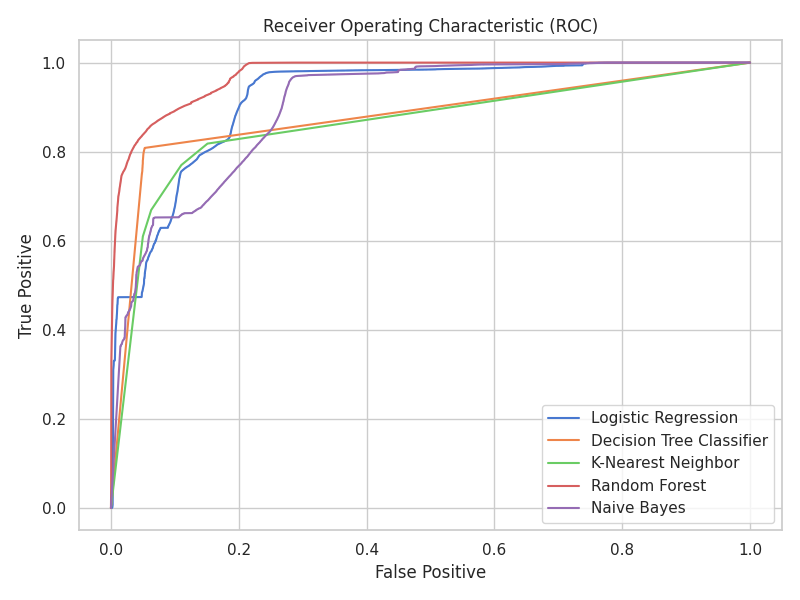
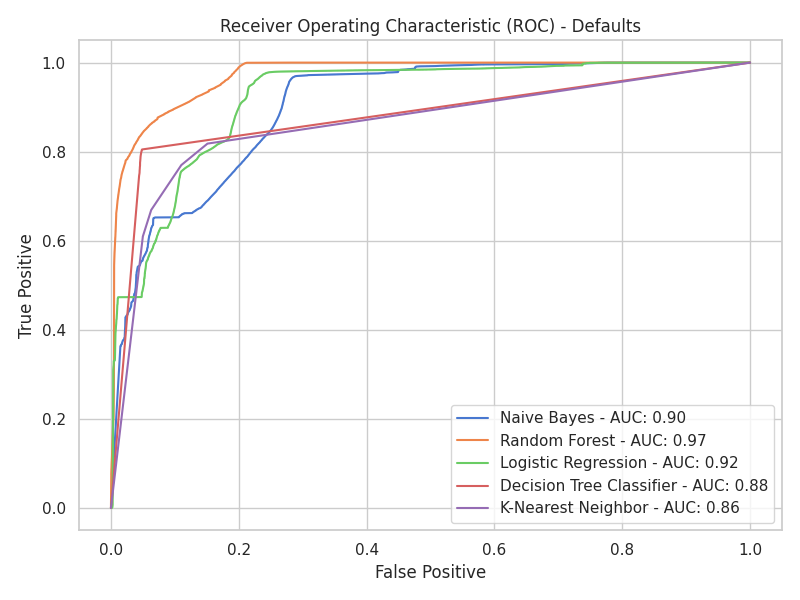
Final changes

diff --git a/src/run.py b/src/run.py
@@ -1,8 +1,12 @@
 import pandas as pd
 import numpy as np
+import string
+import random
+from util import file_string
+from copy import copy
 from pathlib import Path
 from plot import plot_feature_scores, plot_heatmap, plot_bar, plot_roc_curve
-from model import build_pipelines, select_k_best, fit_model, validate_model
+from model import build_pipeline, select_k_best, fit_model, validate_model
 from sklearn.naive_bayes import GaussianNB
 from sklearn.preprocessing import StandardScaler
 from sklearn.ensemble import RandomForestClassifier
@@ -45,19 +49,37 @@ best = select_k_best(ds_train_X, ds_train_y, 15)
 ds_test_X = ds_test_X.iloc[:,best['columns']]
 ds_train_X = ds_train_X.iloc[:,best['columns']]
 
+#####################
+# Define algorithms #
+#####################
+
 # Define algorithms
 algos = {
+    'Naive Bayes': GaussianNB(),
+    'Random Forest': RandomForestClassifier(),
     'Logistic Regression': LogisticRegression(n_jobs=-1, max_iter=5000),
     'Decision Tree Classifier': DecisionTreeClassifier(),
-    'K-Nearest Neighbor': KNeighborsClassifier(n_jobs=-1),
-    'Random Forest': RandomForestClassifier(),
-    'Naive Bayes': GaussianNB()
+    'K-Nearest Neighbor': KNeighborsClassifier(n_jobs=-1)
 }
 
-# Create models
-models = build_pipelines(algos)
+# Define params
+params = {
+    'Naive Bayes': {},
+    'Random Forest': {'max_depth': [5,10,20,40]},
+    'Logistic Regression': {'C': [0.1, 0.1, 10, 100]},
+    'Decision Tree Classifier': {'max_depth': [5,10,20,40]},
+    'K-Nearest Neighbor': {'n_neighbors': [5,10,20,40]}
+}
 
-# Fit and score models
+#########################
+# Default fit and score #
+#########################
+
+# Build models with defaults
+#models = build_pipelines(algos)
+
+# Default fit and score
+'''
 scores = pd.DataFrame(
     index=[],
     columns=[
@@ -67,7 +89,8 @@ scores = pd.DataFrame(
         'Recall',
         'F1',
         'False Positive',
-        'True Positive'
+        'True Positive',
+        'AUC'
     ]
 )
 for algo in models:
@@ -81,7 +104,63 @@ for algo in models:
         val['recall'],
         val['f1'],
         val['roc']['fp'],
-        val['roc']['tp']
+        val['roc']['tp'],
+        val['auc']
     ]
     scores.loc[algo] = row
-plot_bar(scores)
+#plot_roc_curve(scores)
+'''
+
+############################
+# Optimizing fit and score #
+############################
+
+# Create models with ranged params
+ranged = {}
+for algo, classifier in algos.items():
+    ranged[algo] = []
+    for name, vals in param.items():
+        for val in vals:
+            ranged[algo].append(
+                build_pipeline(
+                    copy(classifier).set_params(**{
+                    val: rng
+                    })
+                )
+            )
+
+print(ranged)
+
+# Optimizing fit and score
+scores = {}
+for algo in ranged:
+    scores[algo] = pd.DataFrame(
+        index=[],
+        columns=[
+            'Loss',
+            'Accuracy',
+            'Precision',
+            'Recall',
+            'F1',
+            'False Positive',
+            'True Positive',
+            'AUC'
+        ]
+    )
+    for model in ranged[algo]:
+        fit = fit_model(model, ds_train_X, ds_train_y)
+        val = validate_model(fit, ds_test_X, ds_test_y)
+        row = [
+            val['loss'],
+            val['accuracy'],
+            val['precision'],
+            val['recall'],
+            val['f1'],
+            val['roc']['fp'],
+            val['roc']['tp'],
+            val['auc']
+        ]
+        scores[algo].loc['%s - %s %s' % (algo, next(iter(params[algo])), model.get_params()['algo__%s' % (next(iter(params[algo])))])] = row
+    sorted = scores[algo]
+    print(sorted)
+    plot_roc_curve(sorted, file_string(algo), 'Receiver Operating Characteristic (ROC) - %s' % (algo))

diff --git a/src/model.py b/src/model.py
@@ -10,7 +10,7 @@ from sklearn.tree import DecisionTreeClassifier
 from sklearn.svm import SVC
 from sklearn.neighbors import KNeighborsClassifier
 from sklearn.linear_model import LogisticRegression
-from sklearn.metrics import log_loss, accuracy_score, precision_score, recall_score, confusion_matrix, roc_curve, f1_score, RocCurveDisplay
+from sklearn.metrics import log_loss, accuracy_score, precision_score, recall_score, confusion_matrix, roc_curve, f1_score, roc_auc_score
 
 # Fit model
 def fit_model(model, X, y):
@@ -22,17 +22,17 @@ def validate_model(model, X, y):
     prob = model.predict_proba(X)
     pred = prob[:,1]
     fp, tp, _ = roc_curve(y, pred)
-    print(fp)
     score = {
-        'loss': np.round(log_loss(y, y_pred), 2),
-        'accuracy': np.round(accuracy_score(y, y_pred), 2),
-        'precision': np.round(precision_score(y, y_pred), 2),
-        'recall': np.round(recall_score(y, y_pred), 2),
-        'f1': np.round(f1_score(y, y_pred), 2),
+        'loss': np.round(log_loss(y, y_pred), 3),
+        'accuracy': np.round(accuracy_score(y, y_pred), 3),
+        'precision': np.round(precision_score(y, y_pred), 3),
+        'recall': np.round(recall_score(y, y_pred), 3),
+        'f1': np.round(f1_score(y, y_pred), 3),
         'roc': {
             'fp': fp,
             'tp': tp
         },
+        'auc': round(roc_auc_score(y, pred), 3),
         'matrix': confusion_matrix(y, y_pred)
     }
     return score
@@ -47,13 +47,9 @@ def select_k_best(X, y, k):
     }
     return scores
 
-# Build pipeline for models
-def build_pipelines(algos):
-    models = {}
-    for name in algos:
-        algo = algos[name]
-        models[name] = Pipeline(steps=[
-            ('scale', StandardScaler()),
-            ('algo', algo)
-        ])
-    return models
+# Build pipeline for model
+def build_pipeline(algo):
+    return Pipeline(steps=[
+        ('scale', StandardScaler()),
+        ('algo', algo)
+    ])

diff --git a/src/plot.py b/src/plot.py
@@ -1,7 +1,6 @@
 import pandas as pd
 import matplotlib.pyplot as plt
 import seaborn as sns
-from model import select_k_best, fit_model, validate_model
 
 sns.set_theme(style='whitegrid')
 
@@ -27,22 +26,22 @@ def plot_bar(data):
     plt.clf()
     fig, (ax1, ax2)=plt.subplots(1,2, figsize=(20, 6))
     palette=sns.color_palette('muted', n_colors=len(data.index))
-    sns.barplot(data=data, x=data.index, y='Loss', palette=palette, ax=ax1)
+    sns.barplot(data=data, x=data.index, y='Loss', ax=ax1)
     ax1.title.set_text('Test Data Prediction - Loss')
-    sns.barplot(data=data, x=data.index, y='Accuracy', palette=palette, ax=ax2)
+    sns.barplot(data=data, x=data.index, y='Accuracy', ax=ax2)
     ax2.title.set_text('Test Data Prediction - Accuracy')
     plt.tight_layout()
     plt.savefig('../assets/images/box_plot_loss.png')
 
-def plot_roc_curve(data):
+def plot_roc_curve(data, name, title):
     plt.clf()
     plt.figure(figsize=(8,6))
     palette=sns.color_palette('muted', n_colors=len(data.index))
     i=0
     for algo in data.index:
-        sns.lineplot(data=data.loc[algo], x='False Positive', y='True Positive', color=palette[i], label=algo)
+        sns.lineplot(data=data.loc[algo], x='False Positive', y='True Positive', color=palette[i], label='%s - AUC: %s' % (algo, "{0:.3f}".format(data.loc[algo]['AUC'])))
         i+=1
     plt.legend()
-    plt.title('Receiver Operating Characteristic (ROC)')
+    plt.title(title)
     plt.tight_layout()
-    plt.savefig('../assets/images/roc_curve.png')
+    plt.savefig('../assets/images/roc_curve_%s.png' % (name))

diff --git a/src/archive/model_selection.py b/src/archive/model_selection.py
@@ -1,0 +1,26 @@
+from sklearn.metrics import accuracy_score
+
+# parameter = {'C': [0.1, 1, ..., 10]}
+def param_search(X_train, y_train, X_test, y_test, classifier, parameter):
+    train_scores = []
+    test_scores = []
+    
+    for name, values in parameter.items():
+        for value in values:
+            # Set params
+            classifier.set_params(**{
+                name: value
+            })
+
+            # Fit model
+            classifier.fit(X_train, y_train)
+
+            # Train score
+            y_train_pred = classifier.predict(X_train)
+            train_scores.append(round(accuracy_score(y_train, y_train_pred), 3))
+            
+            # Test score
+            y_test_pred = classifier.predict(X_test)
+            test_scores.append(round(accuracy_score(y_test, y_test_pred), 3))
+    
+    return train_scores, test_scores

diff --git a/src/util.py b/src/util.py
@@ -1,0 +1,2 @@
+def file_string(string):
+    return string.replace(' ','_').lower()
